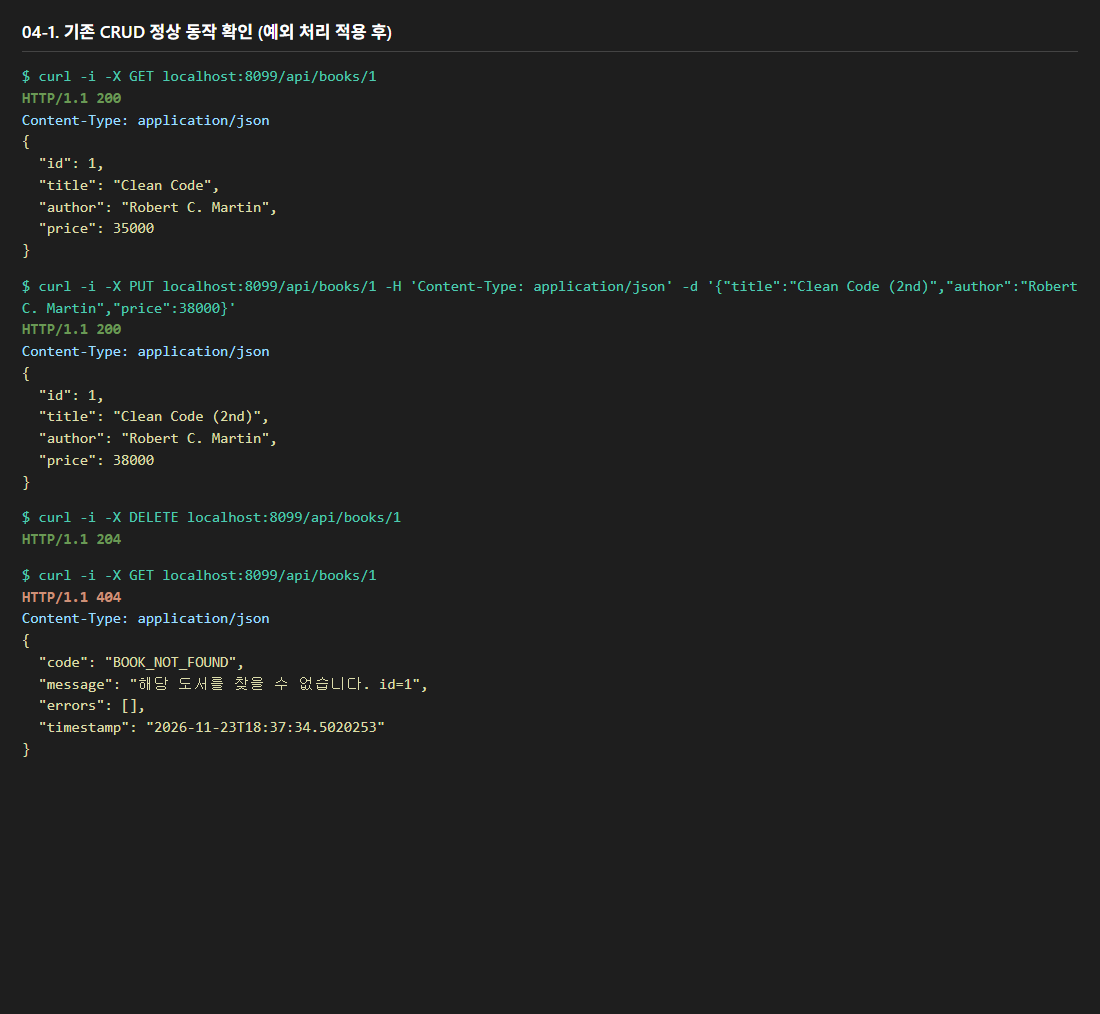
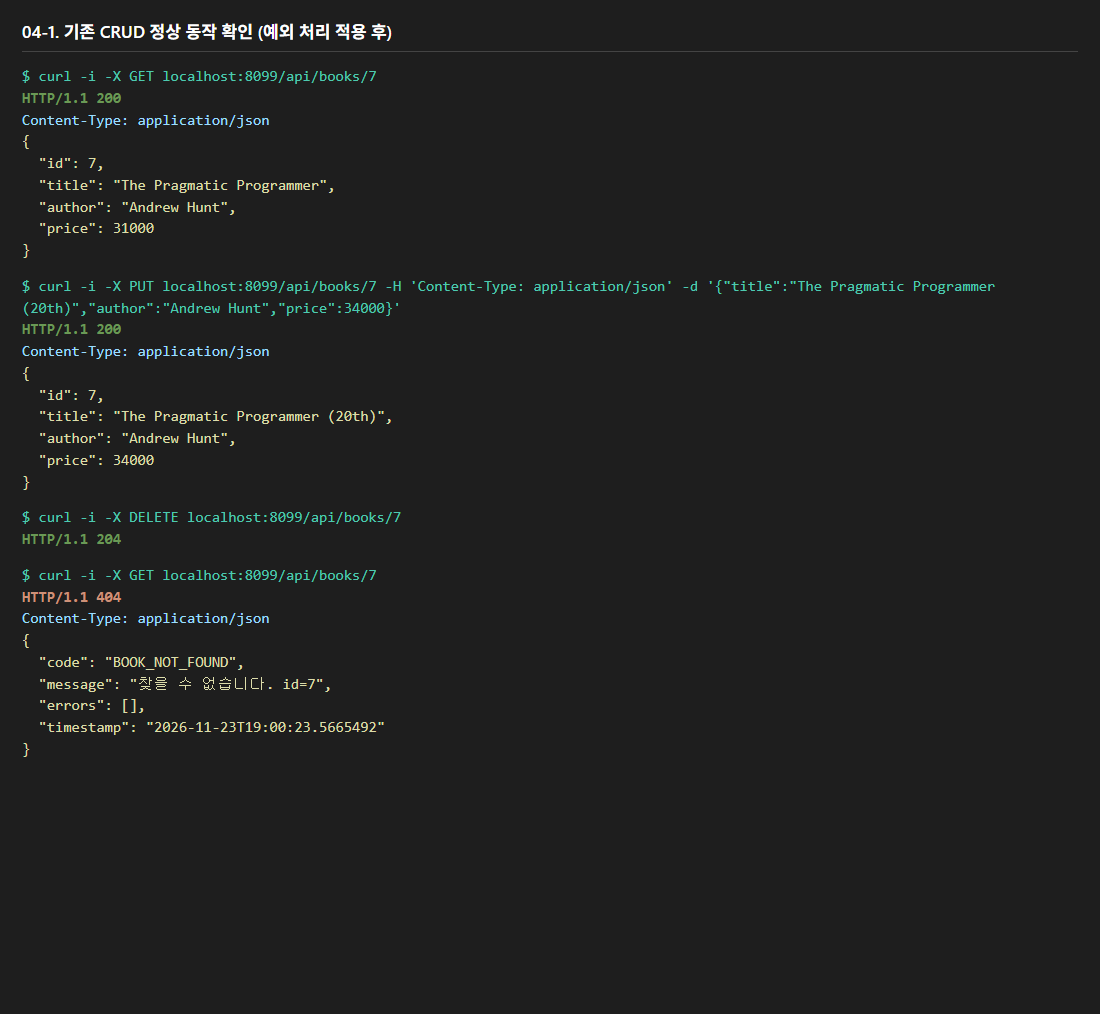
swagger ui open api 인증 추가

diff --git a/src/main/java/edu/handong/week12/book/BookController.java b/src/main/java/edu/handong/week12/book/BookController.java
@@ -2,13 +2,25 @@ package edu.handong.week12.book;
 
 import edu.handong.week12.book.dto.BookRequest;
 import edu.handong.week12.book.dto.BookResponse;
+import edu.handong.week12.common.ErrorResponse;
+import io.swagger.v3.oas.annotations.Operation;
+import io.swagger.v3.oas.annotations.Parameter;
+import io.swagger.v3.oas.annotations.media.Content;
+import io.swagger.v3.oas.annotations.media.Schema;
+import io.swagger.v3.oas.annotations.responses.ApiResponse;
+import io.swagger.v3.oas.annotations.tags.Tag;
 import jakarta.validation.Valid;
+import org.springdoc.core.annotations.ParameterObject;
+import org.springframework.data.domain.Page;
+import org.springframework.data.domain.Pageable;
+import org.springframework.data.domain.Sort;
+import org.springframework.data.web.PageableDefault;
 import org.springframework.http.ResponseEntity;
 import org.springframework.web.bind.annotation.*;
 
 import java.net.URI;
-import java.util.List;
 
+@Tag(name = "Book API", description = "도서 등록·조회·수정·삭제 API")
 @RestController
 @RequestMapping("/api/books")
 public class BookController {
@@ -18,29 +30,45 @@ public class BookController {
         this.service = service;
     }
 
+    @Operation(summary = "도서 목록 조회 (페이징/정렬)", description = "page(0부터 시작), size, sort 파라미터로 페이징과 정렬을 지정합니다.")
+    @ApiResponse(responseCode = "200", description = "조회 성공")
     @GetMapping
-    public ResponseEntity<List<BookResponse>> list() {
-        return ResponseEntity.ok(service.findAll());
+    public ResponseEntity<Page<BookResponse>> list(@ParameterObject @PageableDefault(size = 5, sort = "id", direction = Sort.Direction.ASC) Pageable pageable) {
+        return ResponseEntity.ok(service.findAll(pageable));
     }
 
+    @Operation(summary = "도서 단건 조회", description = "ID로 도서 한 권을 조회합니다.")
+    @ApiResponse(responseCode = "200", description = "조회 성공")
+    @ApiResponse(responseCode = "404", description = "존재하지 않는 ID",
+            content = @Content(schema = @Schema(implementation = ErrorResponse.class)))
     @GetMapping("/{id}")
-    public ResponseEntity<BookResponse> get(@PathVariable Long id) {
+    public ResponseEntity<BookResponse> get(@Parameter(description = "도서 ID", example = "1") @PathVariable Long id) {
         return ResponseEntity.ok(service.findById(id));
     }
 
+    @Operation(summary = "도서 등록", description = "제목·저자는 필수, 가격은 0 이상이어야 합니다. 성공 시 201과 Location 헤더를 반환합니다.")
+    @ApiResponse(responseCode = "201", description = "등록 성공")
+    @ApiResponse(responseCode = "400", description = "입력값 검증 실패 또는 잘못된 JSON", content = @Content(schema = @Schema(implementation = ErrorResponse.class)))
     @PostMapping
     public ResponseEntity<BookResponse> create(@Valid @RequestBody BookRequest request) {
         BookResponse created = service.create(request);
         return ResponseEntity.created(URI.create("/api/books/" + created.id())).body(created);
     }
 
+    @Operation(summary = "도서 수정", description = "ID에 해당하는 도서의 제목·저자·가격을 수정합니다.")
+    @ApiResponse(responseCode = "200", description = "수정 성공")
+    @ApiResponse(responseCode = "400", description = "입력값 검증 실패", content = @Content(schema = @Schema(implementation = ErrorResponse.class)))
+    @ApiResponse(responseCode = "404", description = "존재하지 않는 ID", content = @Content(schema = @Schema(implementation = ErrorResponse.class)))
     @PutMapping("/{id}")
-    public ResponseEntity<BookResponse> update(@PathVariable Long id, @Valid @RequestBody BookRequest request) {
+    public ResponseEntity<BookResponse> update(@Parameter(description = "도서 ID", example = "1") @PathVariable Long id, @Valid @RequestBody BookRequest request) {
         return ResponseEntity.ok(service.update(id, request));
     }
 
+    @Operation(summary = "도서 삭제", description = "ID에 해당하는 도서를 삭제")
+    @ApiResponse(responseCode = "204", description = "삭제 성공")
+    @ApiResponse(responseCode = "404", description = "존재하지 않는 ID", content = @Content(schema = @Schema(implementation = ErrorResponse.class)))
     @DeleteMapping("/{id}")
-    public ResponseEntity<Void> delete(@PathVariable Long id) {
+    public ResponseEntity<Void> delete(@Parameter(description = "도서 ID", example = "1") @PathVariable Long id) {
         service.delete(id);
         return ResponseEntity.noContent().build();
     }

diff --git a/src/main/java/edu/handong/week12/common/GlobalExceptionHandler.java b/src/main/java/edu/handong/week12/common/GlobalExceptionHandler.java
@@ -1,6 +1,7 @@
 package edu.handong.week12.common;
 
 import edu.handong.week12.book.BookNotFoundException;
+import org.springframework.data.mapping.PropertyReferenceException;
 import org.springframework.http.HttpStatus;
 import org.springframework.http.ResponseEntity;
 import org.springframework.http.converter.HttpMessageNotReadableException;
@@ -39,5 +40,10 @@ public class GlobalExceptionHandler {
     public ResponseEntity<ErrorResponse> handleTypeMismatch(MethodArgumentTypeMismatchException e) {
         return ResponseEntity.badRequest()
                 .body(ErrorResponse.of("INVALID_PARAMETER", "'" + e.getName() + "' 값의 형식이 올바르지 않습니다."));
+    }
+
+    @ExceptionHandler(PropertyReferenceException.class)
+    public ResponseEntity<ErrorResponse> handleInvalidSort(PropertyReferenceException e) {
+        return ResponseEntity.badRequest().body(ErrorResponse.of("INVALID_SORT", "정렬할 수 없는 필드입니다: " + e.getPropertyName()));
     }
 }

diff --git a/src/main/java/edu/handong/week12/book/BookService.java b/src/main/java/edu/handong/week12/book/BookService.java
@@ -2,10 +2,10 @@ package edu.handong.week12.book;
 
 import edu.handong.week12.book.dto.BookRequest;
 import edu.handong.week12.book.dto.BookResponse;
+import org.springframework.data.domain.Page;
+import org.springframework.data.domain.Pageable;
 import org.springframework.stereotype.Service;
 import org.springframework.transaction.annotation.Transactional;
-
-import java.util.List;
 
 @Service
 @Transactional(readOnly = true)
@@ -16,10 +16,9 @@ public class BookService {
     this.repository = repository;
   }
 
-  public List<BookResponse> findAll() {
-    return repository.findAll().stream()
-        .map(BookResponse::from)
-        .toList();
+  public Page<BookResponse> findAll(Pageable pageable) {
+    Page<Book> books = repository.findAll(pageable);
+    return books.map(BookResponse::from);
   }
 
   public BookResponse findById(Long id) {

diff --git a/src/main/java/edu/handong/week12/Week12Application.java b/src/main/java/edu/handong/week12/Week12Application.java
@@ -1,7 +1,15 @@
 package edu.handong.week12;
+
 import org.springframework.boot.SpringApplication;
 import org.springframework.boot.autoconfigure.SpringBootApplication;
+import org.springframework.data.web.config.EnableSpringDataWebSupport;
+
+import static org.springframework.data.web.config.EnableSpringDataWebSupport.PageSerializationMode.VIA_DTO;
+
 @SpringBootApplication
+@EnableSpringDataWebSupport(pageSerializationMode = VIA_DTO)
 public class Week12Application {
-  public static void main(String[] args) { SpringApplication.run(Week12Application.class, args); }
+  public static void main(String[] args) {
+    SpringApplication.run(Week12Application.class, args);
+  }
 }

diff --git a/src/main/java/edu/handong/week12/common/OpenApiConfig.java b/src/main/java/edu/handong/week12/common/OpenApiConfig.java
@@ -1,0 +1,15 @@
+package edu.handong.week12.common;
+
+import io.swagger.v3.oas.models.OpenAPI;
+import io.swagger.v3.oas.models.info.Info;
+import org.springframework.context.annotation.Bean;
+import org.springframework.context.annotation.Configuration;
+
+@Configuration
+public class OpenApiConfig {
+
+    @Bean
+    public OpenAPI bookOpenAPI() {
+        return new OpenAPI().info(new Info().title("Week12 Book REST API").description("DTO, Validation, 전역 예외 처리, Pagination/Sorting을 적용한 도서 관리 API").version("v1.0.0"));
+    }
+}
